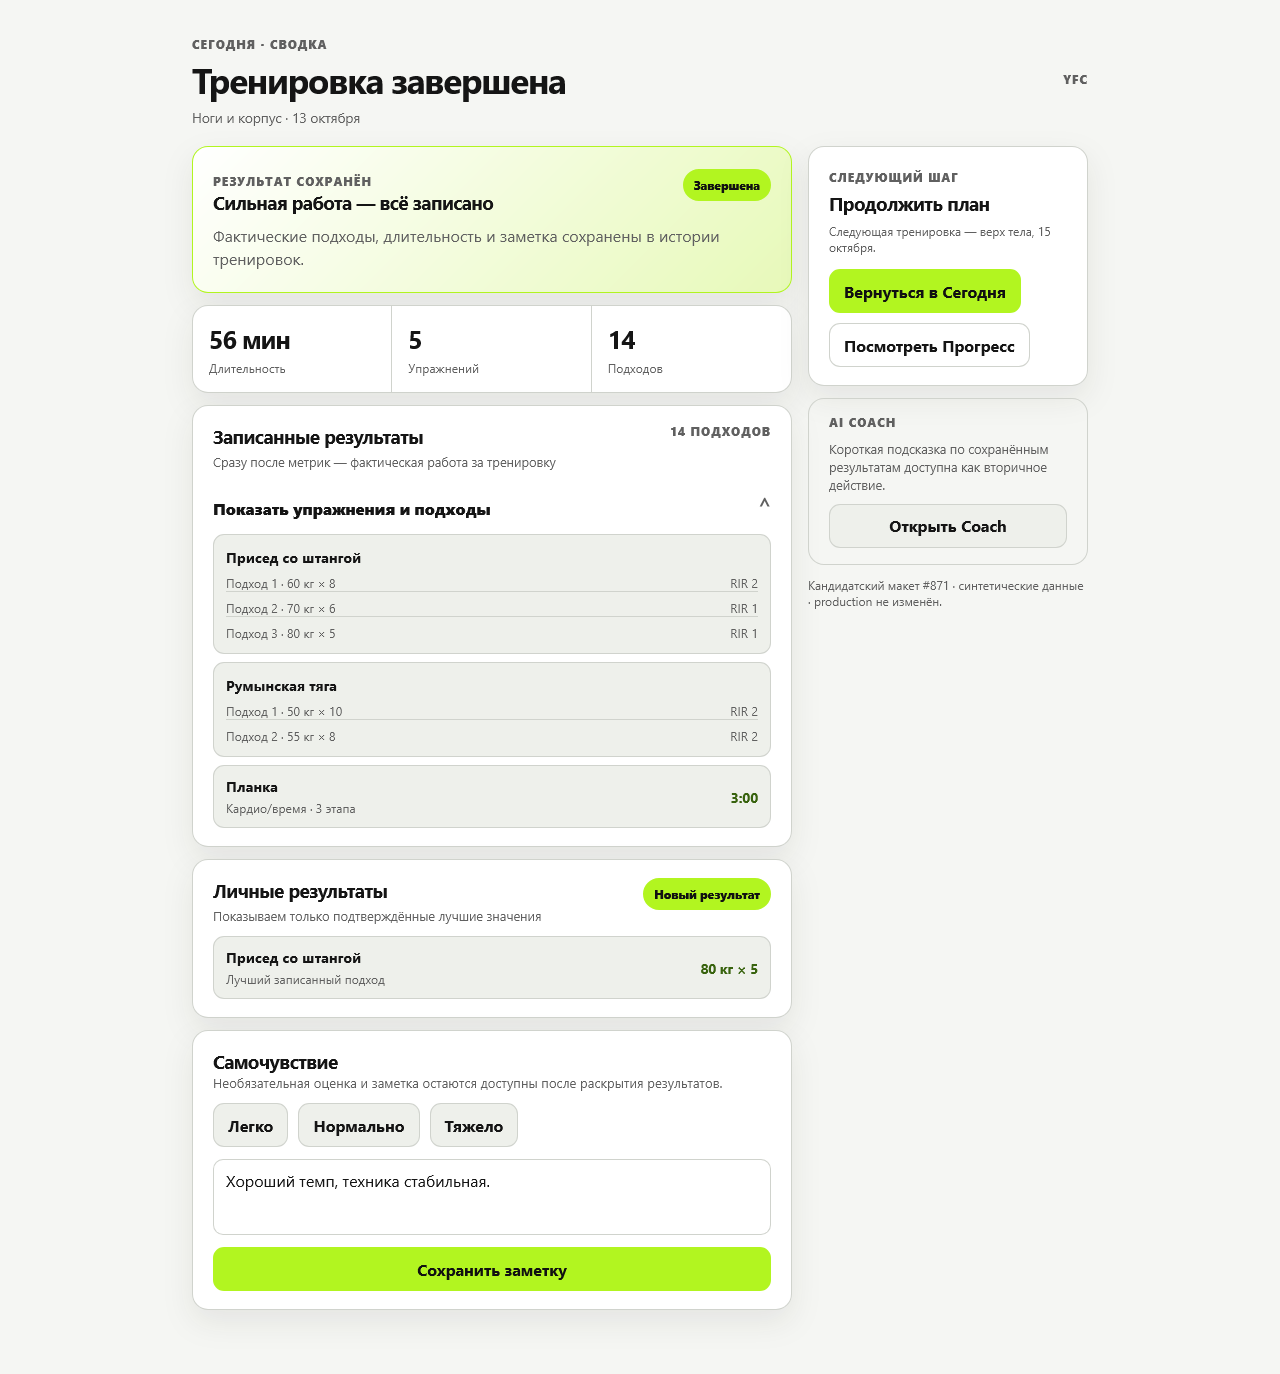
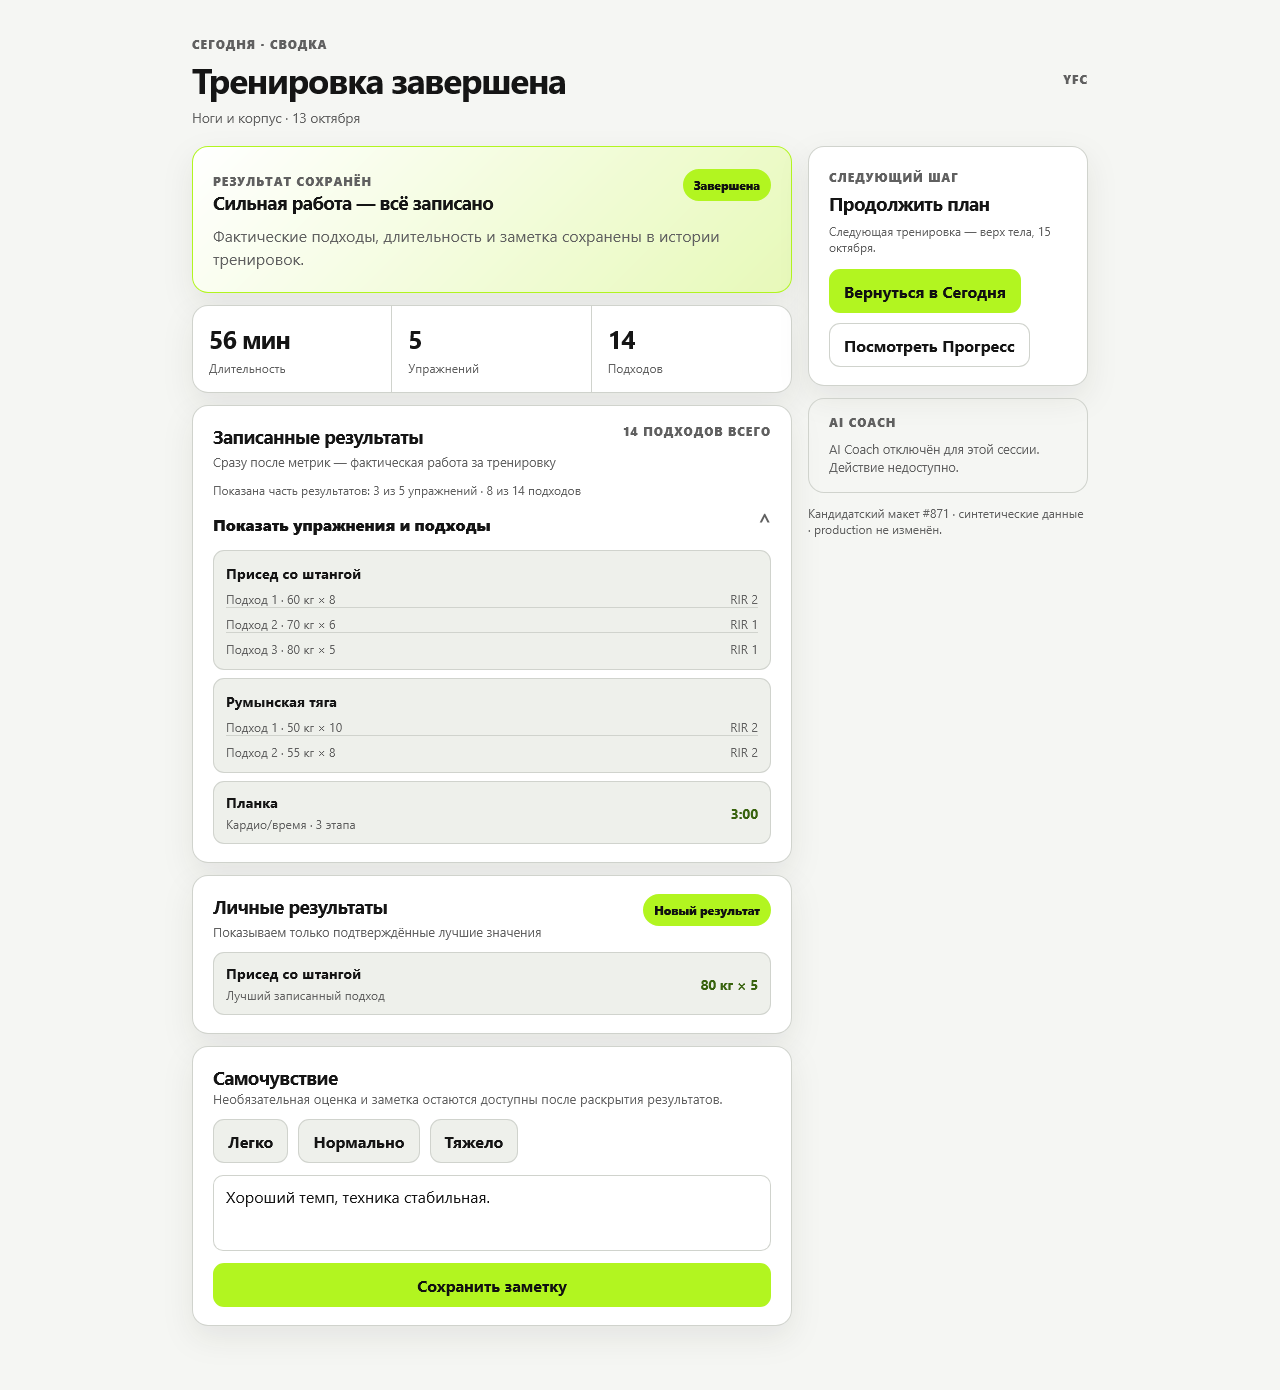
docs: refresh compact hydration and workout prototypes

diff --git a/docs/ux/final-issues-acceptance/visual-package-20261013/prototypes/completed-workout.html b/docs/ux/final-issues-acceptance/visual-package-20261013/prototypes/completed-workout.html
@@ -10,7 +10,7 @@
 <body data-theme="dark"><main class="app"><header class="topbar"><div><span class="eyebrow">Сегодня · Сводка</span><h1>Тренировка завершена</h1><p class="date">Ноги и корпус · 13 октября</p></div><span class="eyebrow">YFC</span></header><div class="main"><div class="stack">
 <section class="surface hero" aria-labelledby="hero-title"><div class="hero__line"><div><span class="eyebrow">Результат сохранён</span><h2 id="hero-title">Сильная работа — всё записано</h2></div><span class="status">Завершена</span></div><p>Фактические подходы, длительность и заметка сохранены в истории тренировок.</p></section>
 <section class="surface facts" aria-label="Метрики тренировки"><div class="fact"><strong>56 мин</strong><span>Длительность</span></div><div class="fact"><strong>5</strong><span>Упражнений</span></div><div class="fact"><strong>14</strong><span>Подходов</span></div></section>
-<section class="surface section results" aria-labelledby="results-title"><div class="section-head"><div><h2 id="results-title">Записанные результаты</h2><p>Сразу после метрик — фактическая работа за тренировку</p></div><span class="eyebrow">14 подходов</span></div><details open><summary>Показать упражнения и подходы</summary><div class="records"><div class="record record--group"><strong>Присед со штангой</strong><div class="set-line"><span>Подход 1 · 60 кг × 8</span><span>RIR 2</span></div><div class="set-line"><span>Подход 2 · 70 кг × 6</span><span>RIR 1</span></div><div class="set-line"><span>Подход 3 · 80 кг × 5</span><span>RIR 1</span></div></div><div class="record record--group"><strong>Румынская тяга</strong><div class="set-line"><span>Подход 1 · 50 кг × 10</span><span>RIR 2</span></div><div class="set-line"><span>Подход 2 · 55 кг × 8</span><span>RIR 2</span></div></div><div class="record"><div><strong>Планка</strong><span>Кардио/время · 3 этапа</span></div><b>3:00</b></div></div></details></section>
+<section class="surface section results" aria-labelledby="results-title"><div class="section-head"><div><h2 id="results-title">Записанные результаты</h2><p>Сразу после метрик — фактическая работа за тренировку</p></div><span class="eyebrow">14 подходов всего</span></div><p class="note results__scope">Показана часть результатов: 3 из 5 упражнений · 8 из 14 подходов</p><details open><summary>Показать упражнения и подходы</summary><div class="records"><div class="record record--group"><strong>Присед со штангой</strong><div class="set-line"><span>Подход 1 · 60 кг × 8</span><span>RIR 2</span></div><div class="set-line"><span>Подход 2 · 70 кг × 6</span><span>RIR 1</span></div><div class="set-line"><span>Подход 3 · 80 кг × 5</span><span>RIR 1</span></div></div><div class="record record--group"><strong>Румынская тяга</strong><div class="set-line"><span>Подход 1 · 50 кг × 10</span><span>RIR 2</span></div><div class="set-line"><span>Подход 2 · 55 кг × 8</span><span>RIR 2</span></div></div><div class="record"><div><strong>Планка</strong><span>Кардио/время · 3 этапа</span></div><b>3:00</b></div></div></details></section>
 <section class="surface section" aria-labelledby="records-title"><div class="section-head"><div><h2 id="records-title">Личные результаты</h2><p>Показываем только подтверждённые лучшие значения</p></div><span class="status">Новый результат</span></div><div class="record"><div><strong>Присед со штангой</strong><span>Лучший записанный подход</span></div><b>80 кг × 5</b></div></section>
 <section class="surface section feedback" aria-labelledby="feedback-title"><div><h2 id="feedback-title">Самочувствие</h2><p>Необязательная оценка и заметка остаются доступны после раскрытия результатов.</p></div><div class="actions"><button class="button" type="button">Легко</button><button class="button" type="button">Нормально</button><button class="button" type="button">Тяжело</button></div><textarea aria-label="Заметка о тренировке">Хороший темп, техника стабильная.</textarea><button class="button button--primary" type="button">Сохранить заметку</button></section>
-</div><aside class="side stack"><section class="surface section"><span class="eyebrow">Следующий шаг</span><h2 style="margin-top:5px">Продолжить план</h2><p class="note" style="margin-top:7px">Следующая тренировка — верх тела, 15 октября.</p><div class="actions" style="margin-top:14px"><button class="button button--primary" type="button">Вернуться в Сегодня</button><button class="button button--ghost" type="button">Посмотреть Прогресс</button></div></section><section class="surface ai"><span class="eyebrow">AI Coach</span><p>Короткая подсказка по сохранённым результатам доступна как вторичное действие.</p><button class="button" type="button">Открыть Coach</button></section><p class="note">Кандидатский макет #871 · синтетические данные · production не изменён.</p></aside></div></main><script>const p=new URLSearchParams(location.search);document.body.dataset.theme=p.get('theme')==='light'?'light':'dark';</script></body></html>
+</div><aside class="side stack"><section class="surface section"><span class="eyebrow">Следующий шаг</span><h2 style="margin-top:5px">Продолжить план</h2><p class="note" style="margin-top:7px">Следующая тренировка — верх тела, 15 октября.</p><div class="actions" style="margin-top:14px"><button class="button button--primary" type="button">Вернуться в Сегодня</button><button class="button button--ghost" type="button">Посмотреть Прогресс</button></div></section><section class="surface ai"><span class="eyebrow">AI Coach</span><p>AI Coach отключён для этой сессии. Действие недоступно.</p></section><p class="note">Кандидатский макет #871 · синтетические данные · production не изменён.</p></aside></div></main><script>const p=new URLSearchParams(location.search);document.body.dataset.theme=p.get('theme')==='light'?'light':'dark';</script></body></html>

diff --git a/docs/ux/final-issues-acceptance/visual-package-20261013/prototypes/compact-hydration.html b/docs/ux/final-issues-acceptance/visual-package-20261013/prototypes/compact-hydration.html
@@ -18,10 +18,10 @@ body[data-theme=dark]{color-scheme:dark;--canvas:#090b0b;--surface:#141717;--sof
 <div class="progress" aria-label="Прогресс гидратации"><span></span></div>
 <div class="quick-add" aria-label="Быстро добавить напиток"><button type="button"><span>Стакан</span><strong>+250 мл</strong></button><button type="button"><span>Бутылка</span><strong>+350 мл</strong></button><button type="button"><span>Большая</span><strong>+500 мл</strong></button></div>
 <div class="entry-form"><div class="field"><label for="amount">Другой объём, мл</label><input id="amount" value="400" inputmode="numeric"></div><div class="field"><label for="drink">Напиток</label><input id="drink" value="Вода"></div><button class="button button--primary" type="button">Добавить</button></div>
-<section class="section" aria-labelledby="history-title"><div class="section-head"><div><h3 id="history-title">История за день</h3><p>Последние записи сразу после добавления</p></div><span class="eyebrow">3 записи</span></div><div class="history" id="history"><div class="history-row"><span class="history-row__dot" aria-hidden="true"></span><div><strong>350 мл · Вода</strong><span>Бутылка</span></div><time>18:42</time></div><div class="history-row"><span class="history-row__dot" aria-hidden="true"></span><div><strong>250 мл · Чай</strong><span>Стакан</span></div><time>15:10</time></div><div class="history-row"><span class="history-row__dot" aria-hidden="true"></span><div><strong>550 мл · Вода</strong><span>Большая бутылка</span></div><time>12:35</time></div></div><div class="history-actions"><button class="button button--primary" id="history-toggle" type="button" aria-expanded="false">Показать всю историю</button></div></section>
+<section class="section" aria-labelledby="history-title"><div class="section-head"><div><h3 id="history-title">История за день</h3><p>Последние записи сразу после добавления воды</p></div><span class="eyebrow" id="history-count">Последние 3 · всего 4</span></div><div class="history" id="history" aria-live="polite"></div><div class="history-actions"><button class="button button--primary" id="history-toggle" type="button" aria-expanded="false" hidden>Показать всю историю</button></div></section>
 <section class="section details" aria-label="Настройки гидратации"><details><summary>Личный ориентир</summary><div class="detail-body"><div class="compact-fields"><div class="field"><label for="goal">Ориентир, мл в день</label><input id="goal" value="2200"></div><div class="field"><label for="goal-mode">Способ</label><input id="goal-mode" value="Вручную"></div></div><p>Ориентир относится к напиткам для здоровых взрослых в обычных условиях. При особых условиях нужен индивидуальный подход.</p><button class="button button--primary" type="button">Сохранить ориентир</button></div></details><details><summary>Мои кружки и бутылки</summary><div class="detail-body"><div class="compact-fields"><div class="field"><label for="preset-name">Название</label><input id="preset-name" value="Бутылка"></div><div class="field"><label for="preset-volume">Объём, мл</label><input id="preset-volume" value="350"></div></div><button class="button button--primary" type="button">Добавить ёмкость</button></div></details></section>
 </section>
 <aside class="nutrition-links" aria-label="Компактные разделы питания"><div class="surface nutrition-link"><details><summary>План питания</summary><div class="detail-body"><p>День, шаблоны и блюда остаются внутри раскрываемого раздела.</p></div></details></div><div class="surface nutrition-link"><details><summary>Список покупок</summary><div class="detail-body"><p>Неделя, рецепты и ручные позиции доступны без смены маршрута.</p></div></details></div><p class="note">Кандидатский макет #869 · синтетические данные · production не изменён.</p></aside>
 </div></main>
-<script>const p=new URLSearchParams(location.search);document.body.dataset.theme=p.get('theme')==='light'?'light':'dark';const b=document.querySelector('#history-toggle'),h=document.querySelector('#history');b?.addEventListener('click',()=>{const e=b.getAttribute('aria-expanded')==='true';if(!e)h.insertAdjacentHTML('beforeend','<div class="history-row"><span class="history-row__dot" aria-hidden="true"></span><div><strong>130 мл · Кофе</strong><span>До тренировки</span></div><time>09:05</time></div>');else h.lastElementChild?.remove();b.setAttribute('aria-expanded',String(!e));b.textContent=e?'Показать всю историю':'Свернуть историю'});</script>
+<script>const p=new URLSearchParams(location.search);document.body.dataset.theme=p.get('theme')==='light'?'light':'dark';const entries=[['350 мл · Вода','Бутылка','18:42'],['250 мл · Чай','Стакан','15:10'],['550 мл · Вода','Большая бутылка','12:35'],['130 мл · Кофе','До тренировки','09:05']];const total=Math.max(0,Math.min(entries.length,Number(p.get('entries')||4)||0));const history=document.querySelector('#history'),count=document.querySelector('#history-count'),toggle=document.querySelector('#history-toggle');let expanded=false;const row=(entry)=>`<div class="history-row"><span class="history-row__dot" aria-hidden="true"></span><div><strong>${entry[0]}</strong><span>${entry[1]}</span></div><time>${entry[2]}</time></div>`;const render=()=>{const visible=expanded?entries.slice(0,total):entries.slice(0,Math.min(3,total));history.innerHTML=visible.map(row).join('')||'<p class="note">Пока нет записей за этот день.</p>';count.textContent=total>3?`${expanded?'Вся история':'Последние 3'} · всего ${total}`:`${total} ${total===1?'запись':'записей'}`;toggle.hidden=total<=3;toggle.setAttribute('aria-expanded',String(expanded));toggle.textContent=expanded?'Свернуть историю':'Показать всю историю'};toggle?.addEventListener('click',()=>{expanded=!expanded;render()});render();</script>
 </body></html>
